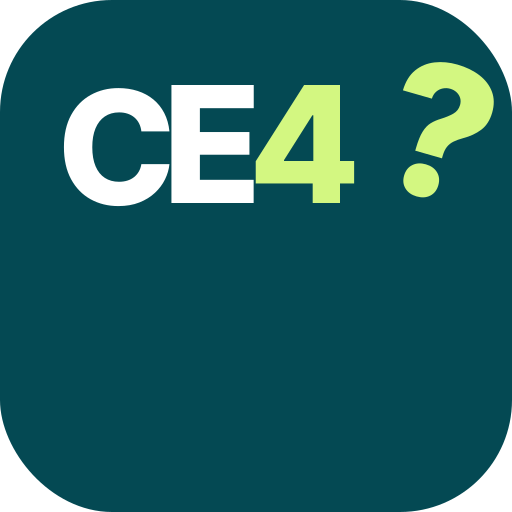
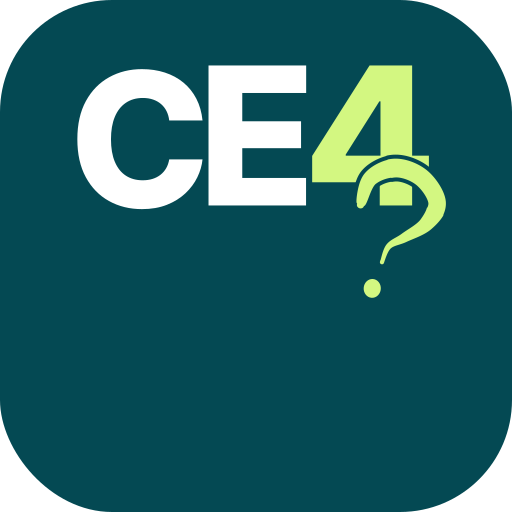
v2.1.5: drawn question mark centred in the tile, CSIDNet support line

Changed region(s): [[0.125, 0.0938, 0.9688, 0.5], [0.6875, 0.5, 0.75, 0.5938]]

diff --git a/tests/regression.test.js b/tests/regression.test.js
@@ -256,8 +256,12 @@ test("Toolkit icon carries the lime question mark and stays large enough to read
   const footer = /\.site-footer \.toolkit-icon\s*\{[^}]*width:\s*(\d+)px/s.exec(css);
   assert.ok(footer && Number(footer[1]) >= 56, "footer icon should be at least 56 px");
   const svg = read("assets/images/toolkit-icon.svg");
-  const lime = (svg.match(/color="#D3F781"/g) || []).length;
+  const lime = (svg.match(/#D3F781/gi) || []).length;
   assert.ok(lime >= 2, "the 4 and the question mark should both be lime, found " + lime);
+  assert.ok(
+    /rotate\(16 50 70\)/.test(svg),
+    "the drawn question mark should be tilted rather than set straight"
+  );
   const footerHtml = read("index.html");
   assert.ok(
     footerHtml.includes("assets/images/toolkit-icon-lime.svg"),
@@ -295,7 +299,7 @@ test("Toolkit icon is separate from the official CSID Network footer logo", () =
     );
     assert.ok(html.includes('alt="CE4CSID Toolkit icon"'), f + " should label the toolkit icon");
     assert.ok(
-      html.includes("The CE4CSID Toolkit, supported by the CSID Network"),
+      html.includes("The CE4CSID Toolkit is supported by the CSIDNet."),
       f + " should carry the footer support line"
     );
     assert.ok(

diff --git a/index.html b/index.html
@@ -257,7 +257,7 @@ try {
     </div>
     <div class="footer-support">
       <img class="brand-logo" src="assets/images/logo-white.svg" alt="CSID Network logo" width="760" height="212">
-      <p>The CE4CSID Toolkit, supported by the CSID Network</p>
+      <p>The CE4CSID Toolkit is supported by the CSIDNet.</p>
     </div>
     <div class="footer-bottom">
       <span>&copy; <span data-current-year>2026</span> CSID Network / CE4CSID Working Group.</span>

diff --git a/about.html b/about.html
@@ -256,7 +256,7 @@
     </div>
     <div class="footer-support">
       <img class="brand-logo" src="assets/images/logo-white.svg" alt="CSID Network logo" width="760" height="212">
-      <p>The CE4CSID Toolkit, supported by the CSID Network</p>
+      <p>The CE4CSID Toolkit is supported by the CSIDNet.</p>
     </div>
     <div class="footer-bottom">
       <span>&copy; <span data-current-year>2026</span> CSID Network / CE4CSID Working Group.</span>

diff --git a/checklist.html b/checklist.html
@@ -134,7 +134,7 @@
     </div>
     <div class="footer-support">
       <img class="brand-logo" src="assets/images/logo-white.svg" alt="CSID Network logo" width="760" height="212">
-      <p>The CE4CSID Toolkit, supported by the CSID Network</p>
+      <p>The CE4CSID Toolkit is supported by the CSIDNet.</p>
     </div>
     <div class="footer-bottom">
       <span>&copy; <span data-current-year>2026</span> CSID Network / CE4CSID Working Group.</span>

diff --git a/contact.html b/contact.html
@@ -150,7 +150,7 @@
     </div>
     <div class="footer-support">
       <img class="brand-logo" src="assets/images/logo-white.svg" alt="CSID Network logo" width="760" height="212">
-      <p>The CE4CSID Toolkit, supported by the CSID Network</p>
+      <p>The CE4CSID Toolkit is supported by the CSIDNet.</p>
     </div>
     <div class="footer-bottom">
       <span>&copy; <span data-current-year>2026</span> CSID Network / CE4CSID Working Group.</span>

diff --git a/downloads.html b/downloads.html
@@ -133,7 +133,7 @@
     </div>
     <div class="footer-support">
       <img class="brand-logo" src="assets/images/logo-white.svg" alt="CSID Network logo" width="760" height="212">
-      <p>The CE4CSID Toolkit, supported by the CSID Network</p>
+      <p>The CE4CSID Toolkit is supported by the CSIDNet.</p>
     </div>
     <div class="footer-bottom">
       <span>&copy; <span data-current-year>2026</span> CSID Network / CE4CSID Working Group.</span>

diff --git a/resources.html b/resources.html
@@ -152,7 +152,7 @@
     </div>
     <div class="footer-support">
       <img class="brand-logo" src="assets/images/logo-white.svg" alt="CSID Network logo" width="760" height="212">
-      <p>The CE4CSID Toolkit, supported by the CSID Network</p>
+      <p>The CE4CSID Toolkit is supported by the CSIDNet.</p>
     </div>
     <div class="footer-bottom">
       <span>&copy; <span data-current-year>2026</span> CSID Network / CE4CSID Working Group.</span>

diff --git a/404.html b/404.html
@@ -92,7 +92,7 @@
     </div>
     <div class="footer-support">
       <img class="brand-logo" src="assets/images/logo-white.svg" alt="CSID Network logo" width="760" height="212">
-      <p>The CE4CSID Toolkit, supported by the CSID Network</p>
+      <p>The CE4CSID Toolkit is supported by the CSIDNet.</p>
     </div>
     <div class="footer-bottom">
       <span>&copy; <span data-current-year>2026</span> CSID Network / CE4CSID Working Group.</span>

diff --git a/tools/build_pages.py b/tools/build_pages.py
@@ -115,7 +115,7 @@ FOOTER = f'''<footer class="site-footer" role="contentinfo">
     </div>
     <div class="footer-support">
       {LOGO_FOOTER}
-      <p>The CE4CSID Toolkit, supported by the CSID Network</p>
+      <p>The CE4CSID Toolkit is supported by the CSIDNet.</p>
     </div>
     <div class="footer-bottom">
       <span>&copy; <span data-current-year>2026</span> CSID Network / CE4CSID Working Group.</span>

diff --git a/tools/build_share_images.py b/tools/build_share_images.py
@@ -96,7 +96,7 @@ def card(w, h, out):
     d.line([pad, fy, w - pad, fy], fill=(*TEAL, 60), width=2)
     d.text(
         (pad, fy + int(h * 0.028)),
-        "The CE4CSID Toolkit, supported by the CSID Network",
+        "The CE4CSID Toolkit is supported by the CSIDNet.",
         font=font(BODY, int(h * 0.030), 600),
         fill=TEAL,
     )

diff --git a/CHANGELOG.md b/CHANGELOG.md
@@ -1,5 +1,18 @@
 # Changelog
 
+## v2.1.5 - 2026-11-20
+
+### Changed
+
+- Toolkit icon: the question mark is now drawn as a pen stroke rather than set from the typeface.
+  The hook, stem and dot come from a single tapered outline with a slightly irregular dot, tilted
+  16 degrees, so it reads as something sketched onto the wordmark rather than a glyph placed beside
+  it. Chosen by the Working Group from four drawn options.
+- Toolkit icon artwork is centred on its own ink box, so the tile no longer reads top heavy with an
+  empty lower half.
+- Footer support line reads "The CE4CSID Toolkit is supported by the CSIDNet." at the Working
+  Group's request. Applied to all seven pages and the share images.
+
 ## v2.1.4 - 2026-11-19
 
 ### Changed

diff --git a/README.md b/README.md
@@ -142,7 +142,7 @@ The site header, footer brand block, favicon, apple touch icon, and share image 
 **CE4CSID Toolkit product icon**: a CE4 monogram drawn from Inter Tight, in brand teal and lime,
 with no enclosing ring because a circled CE is the EU conformity marking.
 The footer support line uses the **official CSID Network artwork** from the Identity Guidelines
-logo pack, with the line "The CE4CSID Toolkit, supported by the CSID Network". Provenance and
+logo pack, with the line "The CE4CSID Toolkit is supported by the CSIDNet.". Provenance and
 brand rules are recorded in `assets/images/LOGO-SOURCE.md`.
 
 Per the style guide, do not recolour the CSID Network globe icon with other brand colours; use
